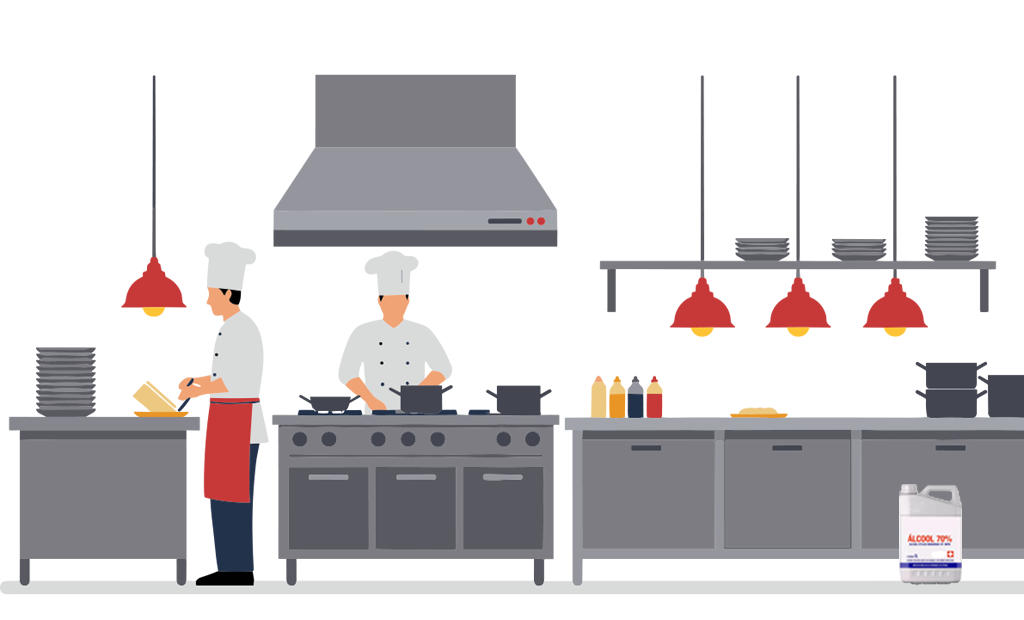
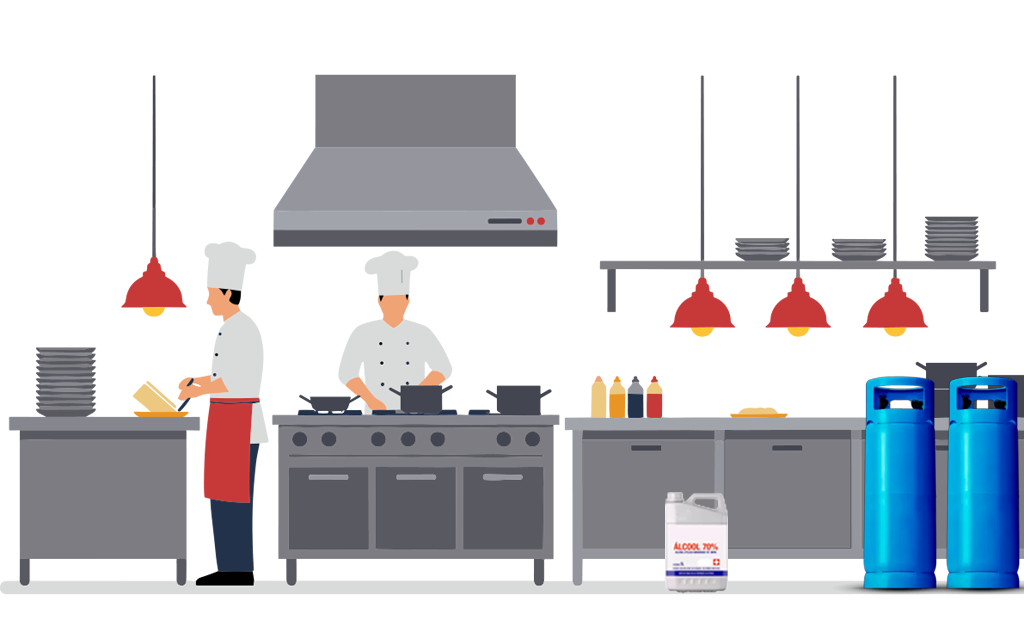
main

Changed region(s): [[0.8125, 0.5823, 1.0, 0.9806], [0.625, 0.7968, 0.7188, 0.9806]]

diff --git a/combate/index.html b/combate/index.html
@@ -19,25 +19,28 @@
     <div id="painel" class="border-end">
         <img id="fogo" class="d-none position-absolute" src="./img/fogo.gif">
     </div>
-    <div class="position-absolute start-0 bottom-0 me-2 mb-3 d-none" id="extintores">
+    <div class="position-absolute start-0 bottom-0 me-2 mb-5 d-none" id="extintores">
         <div class="row" style="background-color: rgba(255, 255, 255, 0.5);">
-            <div class="col-auto">
-                <button class="btn btn-outline-secondary border-0 mx-2" data-bs-toggle="modal"
-                    data-bs-target="#exampleModal" onclick="bombeiro('a', 1);">
+            <div class="col-auto text-center">
+                <button class="btn border-0 mx-2" data-bs-toggle="modal" data-bs-target="#exampleModal"
+                    onclick="bombeiro('a', 1);">
                     <img id="btnAgua" src="./img/agua.png">
                 </button>
+                <h4>Água</h4>
             </div>
-            <div class="col-auto">
-                <button class="btn btn-outline-secondary border-0 mx-2" data-bs-toggle="modal"
-                    data-bs-target="#exampleModal" onclick="bombeiro('a', 2);">
+            <div class="col-auto text-center">
+                <button class="btn border-0 mx-2" data-bs-toggle="modal" data-bs-target="#exampleModal"
+                    onclick="bombeiro('a', 2);">
                     <img id="btnCO2" src="./img/co2.png">
                 </button>
+                <h4>CO2</h4>
             </div>
-            <div class="col-auto">
-                <button class="btn btn-outline-secondary border-0 mx-2" data-bs-toggle="modal"
-                    data-bs-target="#exampleModal" onclick="bombeiro('a', 3);">
+            <div class="col-auto text-center">
+                <button class="btn border-0 mx-2" data-bs-toggle="modal" data-bs-target="#exampleModal"
+                    onclick="bombeiro('a', 3);">
                     <img id="btnPO" src="./img//pobc.png">
                 </button>
+                <h4>PQS</h4>
             </div>
         </div>
 
@@ -68,20 +71,20 @@
                     <div class="row text-center">
                         <div class="col classe-a">
                             <div class="card p-2 h-100" id="tipo1">
-                                <span class="h3">Água</span>
-                                <span class="h4 text-success">Sim</span>Excelente
+                                <span class="h5">Água Pressurizada</span>
+                                <span class="h3 text-success">Sim</span>Excelente
                             </div>
                         </div>
                         <div class="col classe-a">
                             <div class="card p-2 h-100" id="tipo2">
-                                <span class="h3">CO2</span>
-                                <span class="h4 text-success">Sim</span>Em casos pequenos de superfície
+                                <span class="h5">Gás Carbônico</span>
+                                <span class="h3 text-success">Sim</span>Em casos pequenos de superfície
                             </div>
                         </div>
                         <div class="col classe-a">
                             <div class="card p-2 h-100" id="tipo3">
-                                <span class="h3">Pó BC</span>
-                                <span class="h4 text-success">Sim</span>Em casos pequenos de superfície
+                                <span class="h5">Pó Químico Seco</span>
+                                <span class="h3 text-success">Sim</span>Em casos pequenos de superfície
                             </div>
                         </div>
                         <div class="col classe-c">
@@ -231,15 +234,24 @@
                     cena += 1;
                 }
                 else if (cena == 2) {
-                    let fogo = document.getElementById('fogo');
-                    fogo.style.top = 345 * (largura / 1054) + 'px';
-                    fogo.style.left = 380 * (largura / 1054) + 'px';
-                    document.getElementById('fogo').classList.remove('d-none');
+                    document.body.style.backgroundImage = "url(./img/cozinha.png)";
                     cena += 1;
                 }
 
             }, 3000);
+
+
+            setTimeout(function () {
+                if (cena == 2) {
+                    let fogo = document.getElementById('fogo');
+                    fogo.style.top = 540 * (largura / 1054) + 'px';
+                    fogo.style.left = 674 * (largura / 1054) + 'px';
+                    document.getElementById('fogo').classList.remove('d-none');
+                    cena += 1;
+                }
+            }, 5000);
         }
+
 
     </script>
 </body>
